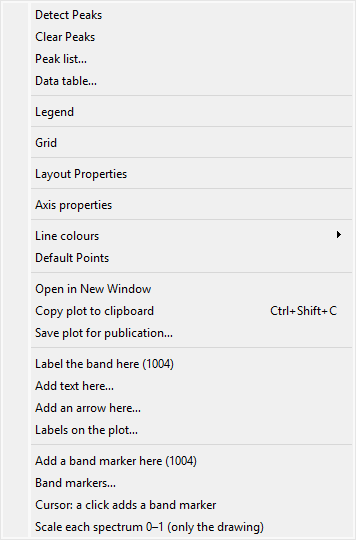
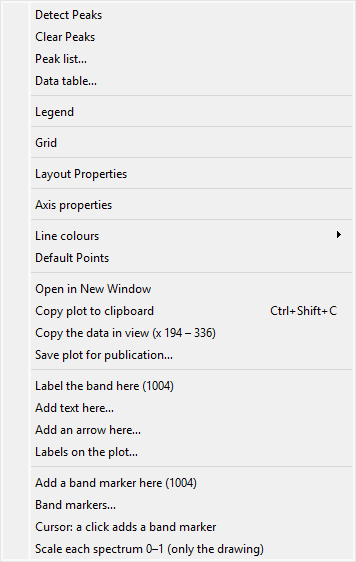
Copy the data in view: the spectra shown, only within the zoomed range, for Excel
Right-click on the plot > Copy the data in view (x 1450 - 1520): the
spectra shown, only within the x range in view (zoomed on a band: that
band; Home: the whole spectra), as a table for Excel - one x column and a
column per spectrum when they share x, otherwise x and values for each
spectrum. The spectra's own values (also in a Waterfall plot and with
scale each); hidden spectra left out; greyed out in the Heatmap.

Help: User guide (Plot Export: Copy the data in view; the right-click
menu), Developer guide.

Pictures (Windows): plot_context_menu (the new item).

Where it is in the code:
- src/modules/visualization/data_in_view.py (new): table_text
- src/controllers/core/main_controller.py: _view_x_range,
  copy_data_in_view, the right-click item
- src/help/user_guide_help.py, developer_guide_help.py
- tests/test_data_in_view.py (new)

diff --git a/src/help/user_guide_help.py b/src/help/user_guide_help.py
@@ -1593,7 +1593,9 @@ def get_user_guide_help_content():
             <tr><td><strong>Line colours</strong></td><td>A submenu: <em>Automatic colours</em>, <em>Own colours</em> or <em>Colours by value</em> (✓ = in use), and <em>Line colours&hellip;</em> for the window &mdash; see <a href="#line-colours">Line colours</a></td></tr>
             <tr><td><strong>Default Points</strong></td><td>Toggle point markers on spectral lines</td></tr>
             <tr><td><strong>Open in New Window</strong></td><td>Open the current plot in a separate full matplotlib window — use this for publication-quality export (PNG, PDF, SVG, EPS)</td></tr>
-            <tr><td><strong>Copy plot to clipboard</strong></td><td>The plot as a picture, to paste straight into Word, PowerPoint or an e-mail (also <span class="kbd">Ctrl+Shift+C</span> and the File menu) &mdash; see <a href="#plot-export">Plot Export</a></td></tr>            <tr><td><strong>Save plot for publication&hellip;</strong></td><td>The plot in a journal's size, font and look, saved as TIFF, PNG, PDF, SVG or EPS, or printed &mdash; see <a href="#publication">Save plot for publication</a></td></tr>
+            <tr><td><strong>Copy plot to clipboard</strong></td><td>The plot as a picture, to paste straight into Word, PowerPoint or an e-mail (also <span class="kbd">Ctrl+Shift+C</span> and the File menu) &mdash; see <a href="#plot-export">Plot Export</a></td></tr>
+            <tr><td><strong>Copy the data in view (x &hellip; &ndash; &hellip;)</strong></td><td>The spectra shown, only within the x range in view (zoomed on a band: that band), as a table for Excel: one x column and a column per spectrum when they share x, otherwise x and values for each; the spectra's own values (also in a Waterfall plot and with <a href="#scale-each">scale each</a>), hidden spectra left out. Not in the Heatmap.</td></tr>
+            <tr><td><strong>Save plot for publication&hellip;</strong></td><td>The plot in a journal's size, font and look, saved as TIFF, PNG, PDF, SVG or EPS, or printed &mdash; see <a href="#publication">Save plot for publication</a></td></tr>
             <tr><td><strong>Label the band here</strong>, <strong>Add text here&hellip;</strong>, <strong>Add an arrow here&hellip;</strong>, <strong>Labels on the plot&hellip;</strong></td><td>Your own labels at the place clicked &mdash; see <a href="#plot-labels">Labels on the plot</a></td></tr>
             <tr><td><strong>Show all spectra (n hidden)</strong></td><td>Only when spectra are hidden (a click on their names in the legend): shows them all again &mdash; see <a href="#plot-mouse">The mouse on the plot</a></td></tr>
             <tr><td><strong>Add a band marker here</strong></td><td>A band marker at the x clicked, labelled with its x above the plot &mdash; see <a href="#band-markers">Band Markers</a> (with the Cursor ticked a click on the plot does the same)</td></tr>
@@ -3258,6 +3260,15 @@ def get_user_guide_help_content():
         white background, and is pasted in the size it has on the screen &mdash; make the program
         window larger or smaller first for a larger or smaller picture. Spectra hidden with a click
         on the legend are not in the picture, nor in its legend.</p>
+        <p id="copy-data"><strong>Copy the data in view</strong> (right-click on the plot) copies
+        the numbers behind the plot: the spectra shown, only within the x range in view &mdash;
+        zoomed on a band, just that band; after Home, the whole spectra &mdash; as a table for
+        Excel. When all spectra share the same x values: one x column and a column per spectrum;
+        otherwise an x column and a value column for each spectrum. The values are the spectra's
+        own (also in a Waterfall plot and with <a href="#scale-each">scale each</a>); spectra
+        hidden in the legend are left out; in the Heatmap it is greyed out. The menu item shows
+        the range, e.g. <em>Copy the data in view (x 1450 &ndash; 1520)</em>. Good for a quick
+        graph in Excel or a check of some values; whole spectra as files: Export spectra.</p>
         <p id="publication"><strong>Save plot for publication&hellip;</strong> (File menu, or
         right-click on the plot) makes the picture a journal, a thesis or a slide needs. The plot
         in the main window is for a quick look and is not changed: the picture is made from a

diff --git a/tests/test_data_in_view.py b/tests/test_data_in_view.py
@@ -1,0 +1,95 @@
+"""Right-click on the plot > Copy the data in view: the spectra shown within
+the x range in view, as a table for Excel - one x column when they share x,
+otherwise x and values per spectrum; their own values (Waterfall, scale
+each); hidden spectra left out."""
+import os
+import time
+
+os.environ.setdefault("QT_QPA_PLATFORM", "offscreen")
+
+import numpy as np
+import pytest
+from PyQt5.QtWidgets import QApplication, QMessageBox
+
+from src.modules.visualization import data_in_view as div
+
+app = QApplication.instance() or QApplication([])
+ROOT = os.path.abspath(os.path.join(os.path.dirname(__file__), '..'))
+DATA = os.path.join(ROOT, 'resources', 'test_data', 'real', 'Raman_DNA_conc_dep.txt')
+
+
+def _pump(seconds=0.2):
+    end = time.time() + seconds
+    while time.time() < end:
+        app.processEvents()
+
+
+def test_one_x_column_when_shared():
+    x = np.linspace(0, 10, 11)
+    text, n, rows = div.table_text([("a", x, x * 2), ("b", x[::-1], (x * 3)[::-1])], 7, 3)
+    lines = [l.split("\t") for l in text.splitlines()]
+    assert lines[0] == ["x (3 – 7)", "a", "b"]
+    assert (n, rows) == (2, 5)
+    assert [float(c) for c in lines[1]] == [3.0, 6.0, 9.0]       # low to high x
+
+
+def test_x_and_values_per_spectrum_otherwise():
+    xa, xb = np.linspace(0, 10, 11), np.linspace(0, 10, 21)
+    text, n, rows = div.table_text([("a", xa, xa), ("b", xb, -xb)], 2, 4)
+    lines = [l.split("\t") for l in text.splitlines()]
+    assert lines[0] == ["x: a", "a", "x: b", "b"]
+    assert rows == 5 and lines[-1][:2] == ["", ""]                # a is shorter
+    assert float(lines[1][2]) == 2.0 and float(lines[1][3]) == -2.0
+
+
+def test_nothing_in_view():
+    x = np.linspace(0, 10, 11)
+    assert div.table_text([("a", x, x)], 20, 30) == ("", 0, 0)
+
+
+@pytest.fixture
+def mc(tmp_path, monkeypatch):
+    monkeypatch.setenv('SPECANALYTIXBASE_DATA_DIR', str(tmp_path / 'appdata'))
+    for n in ('information', 'warning', 'critical'):
+        monkeypatch.setattr(QMessageBox, n, staticmethod(lambda *a, **k: QMessageBox.Ok))
+    monkeypatch.setattr(QMessageBox, 'question', staticmethod(lambda *a, **k: QMessageBox.Yes))
+    from src.views.dialogs.misc import import_dialog
+    monkeypatch.setattr(import_dialog.ImportDialog, 'run', staticmethod(
+        lambda view, settings, file_paths=None: (True, [DATA], [{}])))
+    from src.controllers.core.main_controller import MainController
+    ctrl = MainController()
+    ctrl.import_controller._run_import(clear_first=True, file_paths=[DATA])
+    _pump()
+    ctrl.spectrum_selector.select_all_items()
+    _pump()
+    yield ctrl
+    ctrl.autosave_controller.shutdown()
+    ctrl.view.deleteLater()
+
+
+@pytest.mark.parametrize('plot_type', ["Overlay plot", "Waterfall plot"])
+def test_copy_the_data_in_view(mc, plot_type):
+    mc.view.comboBox_plot_type_choice.setCurrentText(plot_type)
+    mc.view.scale_each_checkBox.setChecked(True)
+    _pump()
+    ax = mc.static_canvas.figure.axes[0]
+    ax.set_xlim(1450, 1520)
+    first = mc.selected_spectra[0]['label']
+    mc.plot_mouse_controller.toggle((mc._display_labels or {}).get(first, first))   # hidden
+    _pump()
+    n, rows = mc.copy_data_in_view()
+    lines = [l.split("\t") for l in QApplication.clipboard().text().splitlines()]
+    assert n == 10 and len(lines) == rows + 1 and first not in lines[0]
+    s = mc.selected_spectra[1]
+    x, y = np.asarray(s['x_scale'], float), np.asarray(s['y_scale'], float)
+    keep = (x >= 1450) & (x <= 1520)
+    col = lines[0].index(s['label'])
+    got = [float(r[col]) for r in lines[1:]]
+    assert sorted(got) == pytest.approx(sorted(y[keep]))           # its own values
+
+
+def test_heatmap_has_nothing_to_copy(mc):
+    mc.view.comboBox_plot_type_choice.setCurrentText("Heatmap")
+    _pump()
+    assert mc._view_x_range() is None
+    assert mc.copy_data_in_view() == (0, 0)

diff --git a/src/controllers/core/main_controller.py b/src/controllers/core/main_controller.py
@@ -2837,6 +2837,38 @@ class MainController(QMainWindow):
             self._status(f"Saved for publication: {dlg.saved_path}")
         return dlg
 
+    def _view_x_range(self):
+        """(low, high) of the main plot's x range in view, or None (no plot
+        with spectra' lines, e.g. the Heatmap)."""
+        figure = getattr(getattr(self, 'static_canvas', None), 'figure', None)
+        if figure is None:
+            return None
+        from src.modules.visualization import kept_view
+        for ax in kept_view.plot_axes(figure):
+            if kept_view._spectrum_lines(ax):
+                return kept_view.x_range(ax)
+        return None
+
+    def copy_data_in_view(self):
+        """Right-click on the plot > Copy the data in view: the shown spectra
+        within the x range in view as a table on the clipboard (their own
+        values). Returns (spectra, rows) copied."""
+        view_range = self._view_x_range()
+        cursor = getattr(self, 'plot_cursor_controller', None)
+        if view_range is None or cursor is None:
+            self._status("There are no spectra on the plot to copy.")
+            return 0, 0
+        from src.modules.visualization import data_in_view
+        from src.modules.visualization.plot_notes import fmt
+        text, n, rows = data_in_view.table_text(cursor.all_curves(), *view_range)
+        if not n:
+            self._status("The spectra shown have no data in the view.")
+            return 0, 0
+        QApplication.clipboard().setText(text)
+        self._status(f"{n} spectra, {rows} rows (x {fmt(view_range[0])} \u2013 "
+                     f"{fmt(view_range[1])}) copied \u2014 paste them into Excel")
+        return n, rows
+
     def copy_plot_to_clipboard(self):
         """The main plot as a picture on the clipboard (Ctrl+Shift+C)."""
         canvas = getattr(self, 'static_canvas', None)
@@ -3751,6 +3783,13 @@ class MainController(QMainWindow):
         context_menu.addSeparator()
         new_figure_action = context_menu.addAction("Open in New Window")        
         copy_plot_action = context_menu.addAction("Copy plot to clipboard\tCtrl+Shift+C")
+        # the spectra's values within the x range in view, for Excel (data_in_view.py)
+        from src.modules.visualization.plot_notes import fmt as fmt_v
+        view_range = self._view_x_range()
+        copy_data_action = context_menu.addAction(
+            "Copy the data in view" + (" (x {} \u2013 {})".format(*[fmt_v(v) for v in view_range])
+                                       if view_range else ""))
+        copy_data_action.setEnabled(view_range is not None)
         publication_action = context_menu.addAction("Save plot for publication\u2026")
 
         # Your own labels: a band's label, text, an arrow - at the place clicked
@@ -3863,6 +3902,8 @@ class MainController(QMainWindow):
             self.open_external_figure()
         elif action == copy_plot_action:
             self.copy_plot_to_clipboard()
+        elif action == copy_data_action:
+            self.copy_data_in_view()
         elif action == publication_action:
             self.save_plot_for_publication()
         elif action == label_band_action:

diff --git a/src/modules/visualization/data_in_view.py b/src/modules/visualization/data_in_view.py
@@ -1,0 +1,56 @@
+# src/modules/visualization/data_in_view.py
+"""Right-click on the plot > Copy the data in view: the spectra shown, only
+within the x range in view (zoomed in on a band: that band), as a
+tab-separated table for Excel - the spectra's own values (also in a
+Waterfall plot and with "scale each"), hidden spectra left out.
+
+One x column and a column per spectrum when all of them have the same x
+values there; otherwise two columns per spectrum (its x and its values),
+as Export spectra's interlaced layout. Qt-free; curves: [(label, x values,
+y values)] (PlotCursorController.all_curves)."""
+
+import numpy as np
+
+from src.modules.visualization.cursor_values import fmt
+
+
+def _inside(x, y, lo, hi):
+    x = np.asarray(x, dtype=float)
+    y = np.asarray(y, dtype=float)
+    keep = np.isfinite(x) & (x >= lo) & (x <= hi)
+    x, y = x[keep], y[keep]
+    order = np.argsort(x, kind='stable')
+    return x[order], y[order]
+
+
+def _cell(v):
+    return "" if v is None or not np.isfinite(v) else repr(float(v))
+
+
+def table_text(curves, lo, hi):
+    """(text, spectra, rows): the table and its size."""
+    lo, hi = min(lo, hi), max(lo, hi)
+    parts = [(str(label),) + _inside(x, y, lo, hi) for label, x, y in curves]
+    parts = [p for p in parts if len(p[1])]
+    if not parts:
+        return "", 0, 0
+    same = all(len(p[1]) == len(parts[0][1]) and np.allclose(p[1], parts[0][1])
+               for p in parts[1:])
+    lines = []
+    if same:
+        lines.append("\t".join([f"x ({fmt(lo)} – {fmt(hi)})"] + [p[0] for p in parts]))
+        for i, xv in enumerate(parts[0][1]):
+            lines.append("\t".join([_cell(xv)] + [_cell(p[2][i]) for p in parts]))
+        n_rows = len(parts[0][1])
+    else:
+        head = []
+        for p in parts:
+            head += [f"x: {p[0]}", p[0]]
+        lines.append("\t".join(head))
+        n_rows = max(len(p[1]) for p in parts)
+        for i in range(n_rows):
+            cells = []
+            for _, x, y in parts:
+                cells += [_cell(x[i]), _cell(y[i])] if i < len(x) else ["", ""]
+            lines.append("\t".join(cells))
+    return "\n".join(lines) + "\n", len(parts), n_rows

diff --git a/src/help/developer_guide_help.py b/src/help/developer_guide_help.py
@@ -3918,6 +3918,14 @@ def _natural_sort_key(cls, label):
             <code>attach</code>); hidden lines and plots with more than
             <code>MAX_LINES_TO_POINT</code> lines are left alone. Tests:
             <code>tests/test_list_hover.py</code>.</li>
+            <li><b>Copy the data in view</b> (1.7.0,
+            <code>src/modules/visualization/data_in_view.py</code>, Qt-free):
+            <code>table_text(curves, lo, hi)</code> - the curves of
+            <code>PlotCursorController.all_curves</code> (own values, hidden left out) cut to
+            the x range of <code>MainController._view_x_range</code> (the first plot with
+            spectrum lines; None for the Heatmap); one x column when all share x
+            (<code>np.allclose</code>), otherwise x / y pairs. <code>MainController.copy_data_in_view</code>,
+            the right-click item. Tests: <code>tests/test_data_in_view.py</code>.</li>
             <li><b>Your work and exports apart</b> (1.7.0): File &rarr; Save snapshot (Ctrl+S,
             <code>actionSaveSnapshot</code>) / Save snapshot as&hellip; (Ctrl+Shift+S) &rarr;
             <code>SaveController.save_snapshot / save_snapshot_as</code> (the compression from the
